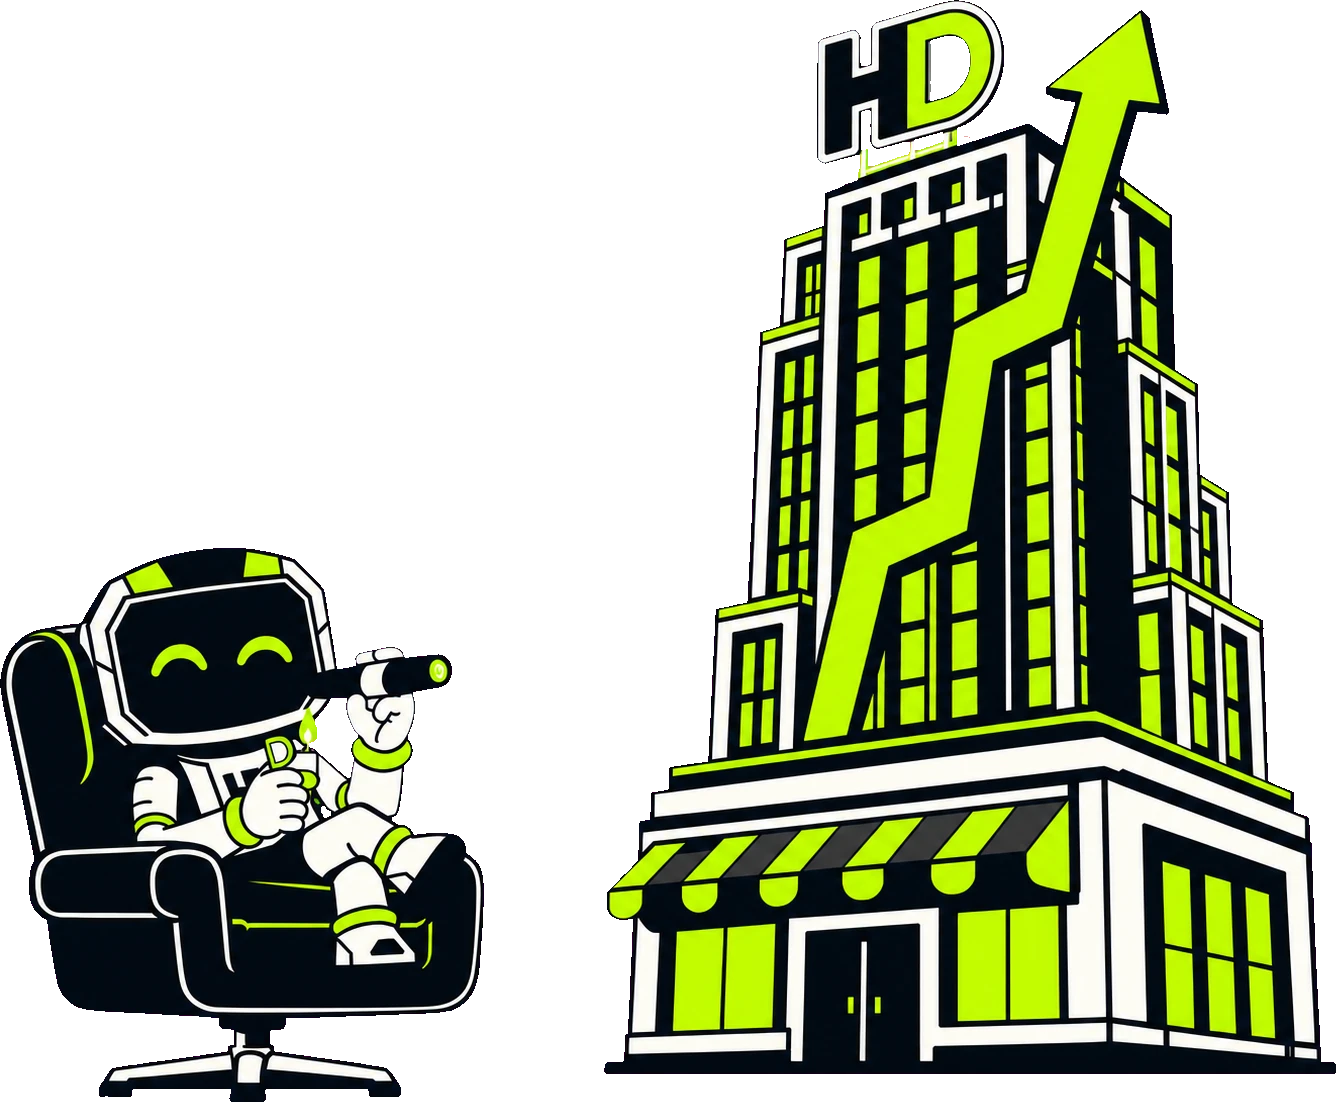
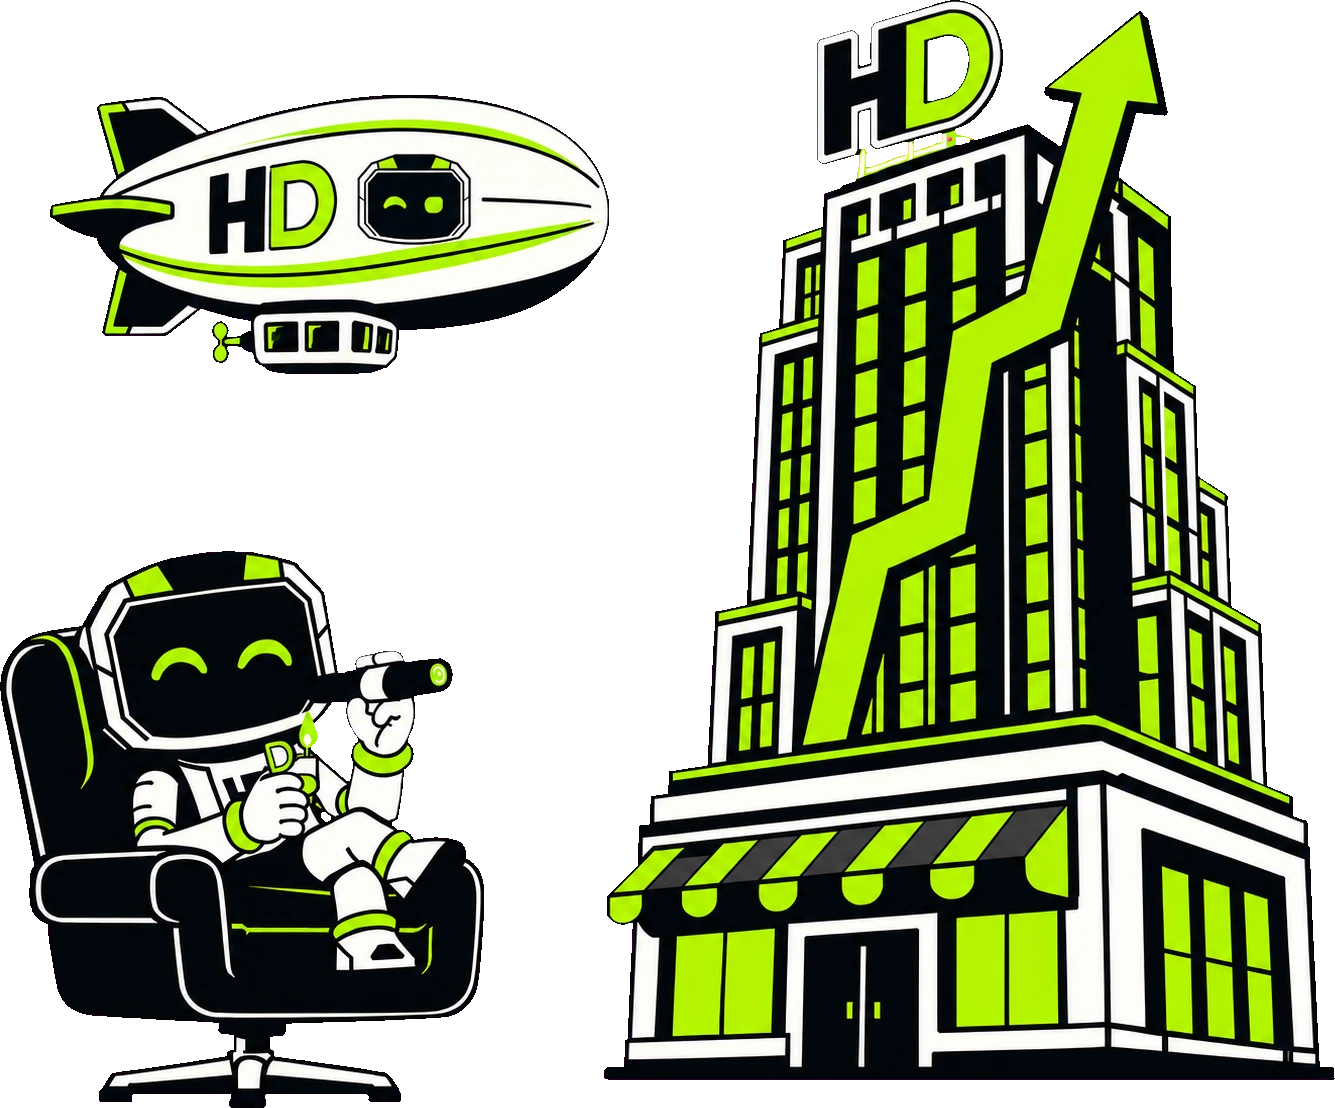
Deploy: sync site from workspace @ bccd82f

diff --git a/es/websites.html b/es/websites.html
@@ -100,8 +100,8 @@
     </div>
     <figure data-rise="right">
 
-      <img src="../assets/websites.webp" width="1453" height="958" loading="lazy" decoding="async"
-           alt="Una p&aacute;gina de HagoDigital en un port&aacute;til, con ventanas de navegador, una maqueta de p&aacute;gina y un gr&aacute;fico en alza alrededor.">
+      <img src="../assets/websites.webp" width="1459" height="847" loading="lazy" decoding="async"
+           alt="Hago, el robot, con una regla y una pluma, una maqueta sin dise&ntilde;ar de un lado y la p&aacute;gina ya con la marca del otro.">
     </figure>
   </div>
 </section>
@@ -109,38 +109,8 @@
 <section class="pillar on-navy">
   <div class="shell row">
     <figure data-rise="left">
-
-      <svg viewBox="0 0 480 360" role="img" aria-label="Una consulta que llega desde una página web y se reparte en tres — a un mensaje de chat, a una bandeja de entrada y a un espacio del calendario.">
-
-        <rect x="24" y="86" width="176" height="196" rx="12" fill="#F8F5E6"/>
-        <rect x="24" y="86" width="176" height="34" rx="12" fill="#1B4EB0"/>
-        <rect x="44" y="99" width="58" height="9" rx="4.5" fill="#F8F5E6"/>
-        <rect x="46" y="142" width="132" height="11" rx="5.5" fill="#0A1526"/>
-        <rect x="46" y="167" width="102" height="11" rx="5.5" fill="#C9C4B4"/>
-        <rect x="46" y="192" width="132" height="11" rx="5.5" fill="#C9C4B4"/>
-        <rect x="46" y="228" width="94" height="26" rx="6" fill="#CEFF00"/>
-
-        <path d="M200 150h56a20 20 0 0 1 20 20v-26" fill="none" stroke="#6E9BFF" stroke-width="3.4" stroke-linecap="round"/>
-        <path d="M200 184h96" fill="none" stroke="#6E9BFF" stroke-width="3.4" stroke-linecap="round"/>
-        <path d="M200 218h56a20 20 0 0 0 20-20v26" fill="none" stroke="#6E9BFF" stroke-width="3.4" stroke-linecap="round"/>
-
-        <path d="M312 66h116a20 20 0 0 1 20 20v44a20 20 0 0 1-20 20h-70l-26 22v-22h-20a20 20 0 0 1-20-20V86a20 20 0 0 1 20-20z" fill="#CEFF00"/>
-        <g fill="#000A18"><circle cx="336" cy="108" r="7"/><circle cx="362" cy="108" r="7"/><circle cx="388" cy="108" r="7"/></g>
-
-        <rect x="292" y="160" width="156" height="46" rx="9" fill="#F8F5E6"/>
-        <path d="M292 169l78 26 78-26" fill="none" stroke="#0A1526" stroke-width="4" stroke-linejoin="round"/>
-
-        <rect x="292" y="230" width="156" height="98" rx="9" fill="#F8F5E6"/>
-        <rect x="292" y="230" width="156" height="24" rx="9" fill="#0A1526"/>
-        <g fill="#C9C4B4">
-          <rect x="306" y="268" width="34" height="22" rx="5"/>
-          <rect x="350" y="268" width="34" height="22" rx="5"/>
-          <rect x="306" y="298" width="34" height="22" rx="5"/>
-          <rect x="394" y="298" width="34" height="22" rx="5"/>
-        </g>
-        <rect x="394" y="268" width="34" height="22" rx="5" fill="#CEFF00"/>
-        <rect x="350" y="298" width="34" height="22" rx="5" fill="#CEFF00"/>
-      </svg>
+      <img src="../assets/websites-action.webp" width="1308" height="952" loading="lazy" decoding="async"
+           alt="Hago, el robot, en un panel de control: una consulta llega por correo de un lado y del otro sale una respuesta autom&aacute;tica con enlace de reserva en el tel&eacute;fono, una notificaci&oacute;n, WhatsApp y una bandeja de entrada.">
     </figure>
     <div class="copy" data-rise>
       <span class="n">02</span>
@@ -176,55 +146,8 @@
       <p style="margin-top:16px"><a class="tlink" href="google-presence.html">Mira el servicio de Perfil de Empresa de Google <svg class="ar" width="13" height="13" viewBox="0 0 14 14" fill="none" aria-hidden="true"><path d="M3 11L11 3M11 3H5M11 3v6" stroke="currentColor" stroke-width="1.8" stroke-linecap="round" stroke-linejoin="round"/></svg></a></p>
     </div>
     <figure data-rise="right">
-      <svg viewBox="0 0 480 360" role="img" aria-label="Una página mostrada en tres anchos — computadora, tableta y teléfono — sobre una fila de fichas de especificación marcadas.">
-
-        <rect x="26" y="40" width="238" height="158" rx="10" fill="#000A18"/>
-        <rect x="38" y="52" width="214" height="134" rx="6" fill="#F8F5E6"/>
-        <rect x="52" y="66" width="88" height="10" rx="5" fill="#0A1526"/>
-        <rect x="52" y="88" width="150" height="8" rx="4" fill="#C9C4B4"/>
-        <rect x="52" y="104" width="120" height="8" rx="4" fill="#C9C4B4"/>
-        <rect x="52" y="128" width="66" height="20" rx="5" fill="#CEFF00"/>
-        <rect x="150" y="122" width="88" height="52" rx="6" fill="#EFEADB"/>
-
-        <rect x="280" y="40" width="106" height="158" rx="10" fill="#000A18"/>
-        <rect x="290" y="52" width="86" height="134" rx="5" fill="#F8F5E6"/>
-        <rect x="302" y="66" width="52" height="9" rx="4.5" fill="#0A1526"/>
-        <rect x="302" y="86" width="62" height="7" rx="3.5" fill="#C9C4B4"/>
-        <rect x="302" y="100" width="48" height="7" rx="3.5" fill="#C9C4B4"/>
-        <rect x="302" y="120" width="50" height="17" rx="5" fill="#CEFF00"/>
-
-        <rect x="402" y="40" width="56" height="158" rx="12" fill="#000A18"/>
-        <rect x="409" y="54" width="42" height="130" rx="6" fill="#F8F5E6"/>
-        <rect x="417" y="66" width="26" height="8" rx="4" fill="#0A1526"/>
-        <rect x="417" y="82" width="30" height="6" rx="3" fill="#C9C4B4"/>
-        <rect x="417" y="94" width="22" height="6" rx="3" fill="#C9C4B4"/>
-        <rect x="417" y="112" width="30" height="15" rx="5" fill="#CEFF00"/>
-
-        <g>
-          <rect x="26" y="232" width="196" height="44" rx="9" fill="#EFEADB"/>
-          <circle cx="52" cy="254" r="13" fill="#CEFF00"/>
-          <path d="M46 254.4l4.4 4.4 8-8.4" fill="none" stroke="#000A18" stroke-width="3.4" stroke-linecap="round" stroke-linejoin="round"/>
-          <rect x="76" y="248" width="124" height="12" rx="6" fill="#0A1526"/>
-        </g>
-        <g>
-          <rect x="240" y="232" width="218" height="44" rx="9" fill="#EFEADB"/>
-          <circle cx="266" cy="254" r="13" fill="#CEFF00"/>
-          <path d="M260 254.4l4.4 4.4 8-8.4" fill="none" stroke="#000A18" stroke-width="3.4" stroke-linecap="round" stroke-linejoin="round"/>
-          <rect x="290" y="248" width="146" height="12" rx="6" fill="#0A1526"/>
-        </g>
-        <g>
-          <rect x="26" y="290" width="238" height="44" rx="9" fill="#EFEADB"/>
-          <circle cx="52" cy="312" r="13" fill="#CEFF00"/>
-          <path d="M46 312.4l4.4 4.4 8-8.4" fill="none" stroke="#000A18" stroke-width="3.4" stroke-linecap="round" stroke-linejoin="round"/>
-          <rect x="76" y="306" width="166" height="12" rx="6" fill="#0A1526"/>
-        </g>
-        <g>
-          <rect x="282" y="290" width="176" height="44" rx="9" fill="#EFEADB"/>
-          <circle cx="308" cy="312" r="13" fill="#CEFF00"/>
-          <path d="M302 312.4l4.4 4.4 8-8.4" fill="none" stroke="#000A18" stroke-width="3.4" stroke-linecap="round" stroke-linejoin="round"/>
-          <rect x="332" y="306" width="104" height="12" rx="6" fill="#0A1526"/>
-        </g>
-      </svg>
+      <img src="../assets/websites-pages.webp" width="1337" height="920" loading="lazy" decoding="async"
+           alt="Hago, el robot, con una p&aacute;gina larga en una mano y un juego de tres p&aacute;ginas en la otra, y ambas llevan al mismo bot&oacute;n lima.">
     </figure>
   </div>
 </section>

diff --git a/websites.html b/websites.html
@@ -102,8 +102,8 @@
     </div>
     <figure data-rise="right">
 
-      <img src="assets/websites.webp" width="1453" height="958" loading="lazy" decoding="async"
-           alt="A HagoDigital website open on a laptop, with browser windows, a page wireframe and a rising chart around it.">
+      <img src="assets/websites.webp" width="1459" height="847" loading="lazy" decoding="async"
+           alt="Hago the robot with a ruler and pen, a bare page wireframe on one side and the finished branded page on the other.">
     </figure>
   </div>
 </section>
@@ -111,38 +111,8 @@
 <section class="pillar on-navy">
   <div class="shell row">
     <figure data-rise="left">
-
-      <svg viewBox="0 0 480 360" role="img" aria-label="An enquiry arriving from a web page and splitting three ways — to a chat message, to an inbox, and to a calendar slot.">
-
-        <rect x="24" y="86" width="176" height="196" rx="12" fill="#F8F5E6"/>
-        <rect x="24" y="86" width="176" height="34" rx="12" fill="#1B4EB0"/>
-        <rect x="44" y="99" width="58" height="9" rx="4.5" fill="#F8F5E6"/>
-        <rect x="46" y="142" width="132" height="11" rx="5.5" fill="#0A1526"/>
-        <rect x="46" y="167" width="102" height="11" rx="5.5" fill="#C9C4B4"/>
-        <rect x="46" y="192" width="132" height="11" rx="5.5" fill="#C9C4B4"/>
-        <rect x="46" y="228" width="94" height="26" rx="6" fill="#CEFF00"/>
-
-        <path d="M200 150h56a20 20 0 0 1 20 20v-26" fill="none" stroke="#6E9BFF" stroke-width="3.4" stroke-linecap="round"/>
-        <path d="M200 184h96" fill="none" stroke="#6E9BFF" stroke-width="3.4" stroke-linecap="round"/>
-        <path d="M200 218h56a20 20 0 0 0 20-20v26" fill="none" stroke="#6E9BFF" stroke-width="3.4" stroke-linecap="round"/>
-
-        <path d="M312 66h116a20 20 0 0 1 20 20v44a20 20 0 0 1-20 20h-70l-26 22v-22h-20a20 20 0 0 1-20-20V86a20 20 0 0 1 20-20z" fill="#CEFF00"/>
-        <g fill="#000A18"><circle cx="336" cy="108" r="7"/><circle cx="362" cy="108" r="7"/><circle cx="388" cy="108" r="7"/></g>
-
-        <rect x="292" y="160" width="156" height="46" rx="9" fill="#F8F5E6"/>
-        <path d="M292 169l78 26 78-26" fill="none" stroke="#0A1526" stroke-width="4" stroke-linejoin="round"/>
-
-        <rect x="292" y="230" width="156" height="98" rx="9" fill="#F8F5E6"/>
-        <rect x="292" y="230" width="156" height="24" rx="9" fill="#0A1526"/>
-        <g fill="#C9C4B4">
-          <rect x="306" y="268" width="34" height="22" rx="5"/>
-          <rect x="350" y="268" width="34" height="22" rx="5"/>
-          <rect x="306" y="298" width="34" height="22" rx="5"/>
-          <rect x="394" y="298" width="34" height="22" rx="5"/>
-        </g>
-        <rect x="394" y="268" width="34" height="22" rx="5" fill="#CEFF00"/>
-        <rect x="350" y="298" width="34" height="22" rx="5" fill="#CEFF00"/>
-      </svg>
+      <img src="assets/websites-action.webp" width="1308" height="952" loading="lazy" decoding="async"
+           alt="Hago the robot at a control desk: an enquiry arrives by email on one side and fans out on the other to an auto-reply carrying a booking link, a notification, WhatsApp and an inbox.">
     </figure>
     <div class="copy" data-rise>
       <span class="n">02</span>
@@ -182,55 +152,8 @@
       <p style="margin-top:16px"><a class="tlink" href="google-presence.html">See the Google Business Profile service <svg class="ar" width="13" height="13" viewBox="0 0 14 14" fill="none" aria-hidden="true"><path d="M3 11L11 3M11 3H5M11 3v6" stroke="currentColor" stroke-width="1.8" stroke-linecap="round" stroke-linejoin="round"/></svg></a></p>
     </div>
     <figure data-rise="right">
-      <svg viewBox="0 0 480 360" role="img" aria-label="A page shown at three widths — desktop, tablet and phone — above a row of ticked specification chips.">
-
-        <rect x="26" y="40" width="238" height="158" rx="10" fill="#000A18"/>
-        <rect x="38" y="52" width="214" height="134" rx="6" fill="#F8F5E6"/>
-        <rect x="52" y="66" width="88" height="10" rx="5" fill="#0A1526"/>
-        <rect x="52" y="88" width="150" height="8" rx="4" fill="#C9C4B4"/>
-        <rect x="52" y="104" width="120" height="8" rx="4" fill="#C9C4B4"/>
-        <rect x="52" y="128" width="66" height="20" rx="5" fill="#CEFF00"/>
-        <rect x="150" y="122" width="88" height="52" rx="6" fill="#EFEADB"/>
-
-        <rect x="280" y="40" width="106" height="158" rx="10" fill="#000A18"/>
-        <rect x="290" y="52" width="86" height="134" rx="5" fill="#F8F5E6"/>
-        <rect x="302" y="66" width="52" height="9" rx="4.5" fill="#0A1526"/>
-        <rect x="302" y="86" width="62" height="7" rx="3.5" fill="#C9C4B4"/>
-        <rect x="302" y="100" width="48" height="7" rx="3.5" fill="#C9C4B4"/>
-        <rect x="302" y="120" width="50" height="17" rx="5" fill="#CEFF00"/>
-
-        <rect x="402" y="40" width="56" height="158" rx="12" fill="#000A18"/>
-        <rect x="409" y="54" width="42" height="130" rx="6" fill="#F8F5E6"/>
-        <rect x="417" y="66" width="26" height="8" rx="4" fill="#0A1526"/>
-        <rect x="417" y="82" width="30" height="6" rx="3" fill="#C9C4B4"/>
-        <rect x="417" y="94" width="22" height="6" rx="3" fill="#C9C4B4"/>
-        <rect x="417" y="112" width="30" height="15" rx="5" fill="#CEFF00"/>
-
-        <g>
-          <rect x="26" y="232" width="196" height="44" rx="9" fill="#EFEADB"/>
-          <circle cx="52" cy="254" r="13" fill="#CEFF00"/>
-          <path d="M46 254.4l4.4 4.4 8-8.4" fill="none" stroke="#000A18" stroke-width="3.4" stroke-linecap="round" stroke-linejoin="round"/>
-          <rect x="76" y="248" width="124" height="12" rx="6" fill="#0A1526"/>
-        </g>
-        <g>
-          <rect x="240" y="232" width="218" height="44" rx="9" fill="#EFEADB"/>
-          <circle cx="266" cy="254" r="13" fill="#CEFF00"/>
-          <path d="M260 254.4l4.4 4.4 8-8.4" fill="none" stroke="#000A18" stroke-width="3.4" stroke-linecap="round" stroke-linejoin="round"/>
-          <rect x="290" y="248" width="146" height="12" rx="6" fill="#0A1526"/>
-        </g>
-        <g>
-          <rect x="26" y="290" width="238" height="44" rx="9" fill="#EFEADB"/>
-          <circle cx="52" cy="312" r="13" fill="#CEFF00"/>
-          <path d="M46 312.4l4.4 4.4 8-8.4" fill="none" stroke="#000A18" stroke-width="3.4" stroke-linecap="round" stroke-linejoin="round"/>
-          <rect x="76" y="306" width="166" height="12" rx="6" fill="#0A1526"/>
-        </g>
-        <g>
-          <rect x="282" y="290" width="176" height="44" rx="9" fill="#EFEADB"/>
-          <circle cx="308" cy="312" r="13" fill="#CEFF00"/>
-          <path d="M302 312.4l4.4 4.4 8-8.4" fill="none" stroke="#000A18" stroke-width="3.4" stroke-linecap="round" stroke-linejoin="round"/>
-          <rect x="332" y="306" width="104" height="12" rx="6" fill="#0A1526"/>
-        </g>
-      </svg>
+      <img src="assets/websites-pages.webp" width="1337" height="920" loading="lazy" decoding="async"
+           alt="Hago the robot holding one long page in one hand and a set of three pages in the other, both routed into a single lime call-to-action button being clicked.">
     </figure>
   </div>
 </section>

diff --git a/es/branding.html b/es/branding.html
@@ -93,8 +93,8 @@
     </div>
     <figure class="hero-mascot art-wide" data-rise>
 
-      <img src="../assets/hago-chart.webp" width="1336" height="1102" fetchpriority="high" decoding="async"
-           alt="Hago, la mascota robot de HagoDigital, recostado en un sill&oacute;n con un tabaco, junto a un edificio alto con el monograma HD y una flecha lima que sube por la fachada.">
+      <img src="../assets/hago-chart.webp" width="1335" height="1108" fetchpriority="high" decoding="async"
+           alt="Hago, la mascota robot de HagoDigital, recostado en un sill&oacute;n con un tabaco, junto a un edificio alto con el monograma HD y una flecha lima que sube por la fachada, y un dirigible HD volando por encima.">
     </figure>
 
   </div>

diff --git a/branding.html b/branding.html
@@ -93,8 +93,8 @@
     </div>
     <figure class="hero-mascot art-wide" data-rise>
 
-      <img src="assets/hago-chart.webp" width="1336" height="1102" fetchpriority="high" decoding="async"
-           alt="Hago, the HagoDigital robot mascot, sitting back in an armchair with a cigar, beside a tall HD-branded building with a rising lime arrow climbing it.">
+      <img src="assets/hago-chart.webp" width="1335" height="1108" fetchpriority="high" decoding="async"
+           alt="Hago, the HagoDigital robot mascot, sitting back in an armchair with a cigar, beside a tall HD-branded building with a rising lime arrow climbing it, and an HD airship flying overhead.">
     </figure>
 
   </div>
